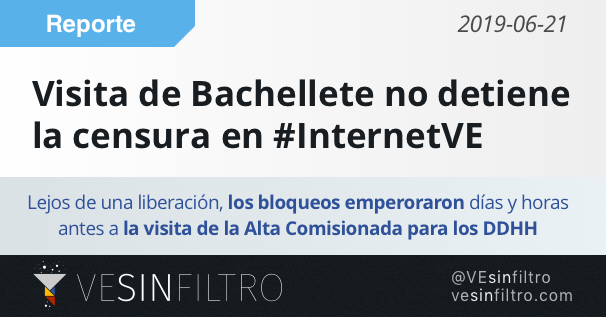
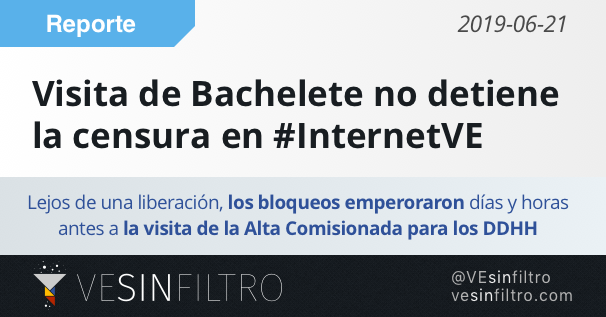
corrected title
embarrasing

Changed region(s): [[0.505, 0.2555, 0.9505, 0.3407]]

diff --git a/_noticias/2019-06-21-la_censura_no_se_detiene.md b/_noticias/2019-06-21-la_censura_no_se_detiene.md
@@ -1,7 +1,7 @@
 ---
 layout: post
-title: "Visita de Bachellete no detiene la censura en #InternetVE"
-small: "no detiene la censura en #InternetVE"
+title: "Visita de Bachelete no detiene la censura en #InternetVE"
+small: "Visita de Bachelete no detiene la censura en #InternetVE"
 excerpt: "La visita de la Alta Comisionada para los Derechos Humanos, Michelle Bachelet, no ha frenado el avance de la censura en internet en Venezuela"
 permalink: /noticias/la_censura_no_se_detiene-2019-06/
 date:   2019-06-21 6:00:00 -0400
